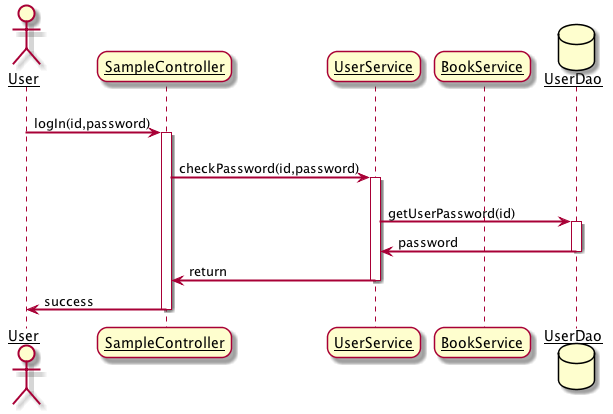
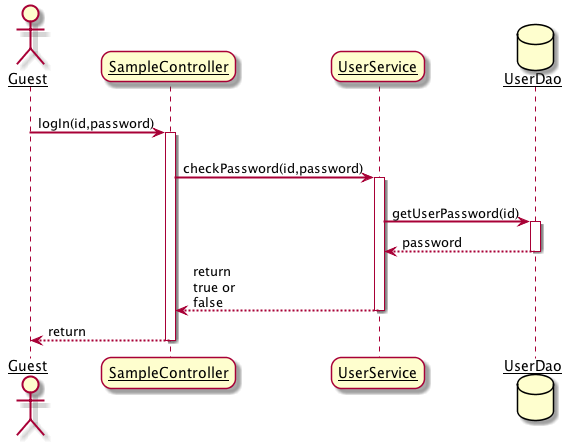
add sequence graphs

diff --git a/other/doc.md b/other/doc.md
@@ -186,31 +186,36 @@ public class UserBuilder{
 ## 顺序图
 
 ### 登录
-ok
+![](顺序图/login.png)
 
 ### 查看个人信息
 deng
 
 
 ### 查看已借阅图书
-deng
+![](顺序图/getAllBorrowingBooks.png)
+
 
 ### 检查是否为Admin
-deng
+![](./顺序图/isAdmin.png)
+
 
 ### 所有用户列表
 
 ### 所有图书列表
+![](./顺序图/getAllBooks.png)
+
 
 ### 增加图书
 
 ### 删除图书
 
 ### 增加用户
-deng
+![](顺序图/addUser.png)
 
 ### 删除用户
-deng
+![](顺序图/deleteUser.png)
+
 
 ### 改变用户的类型
 ok
